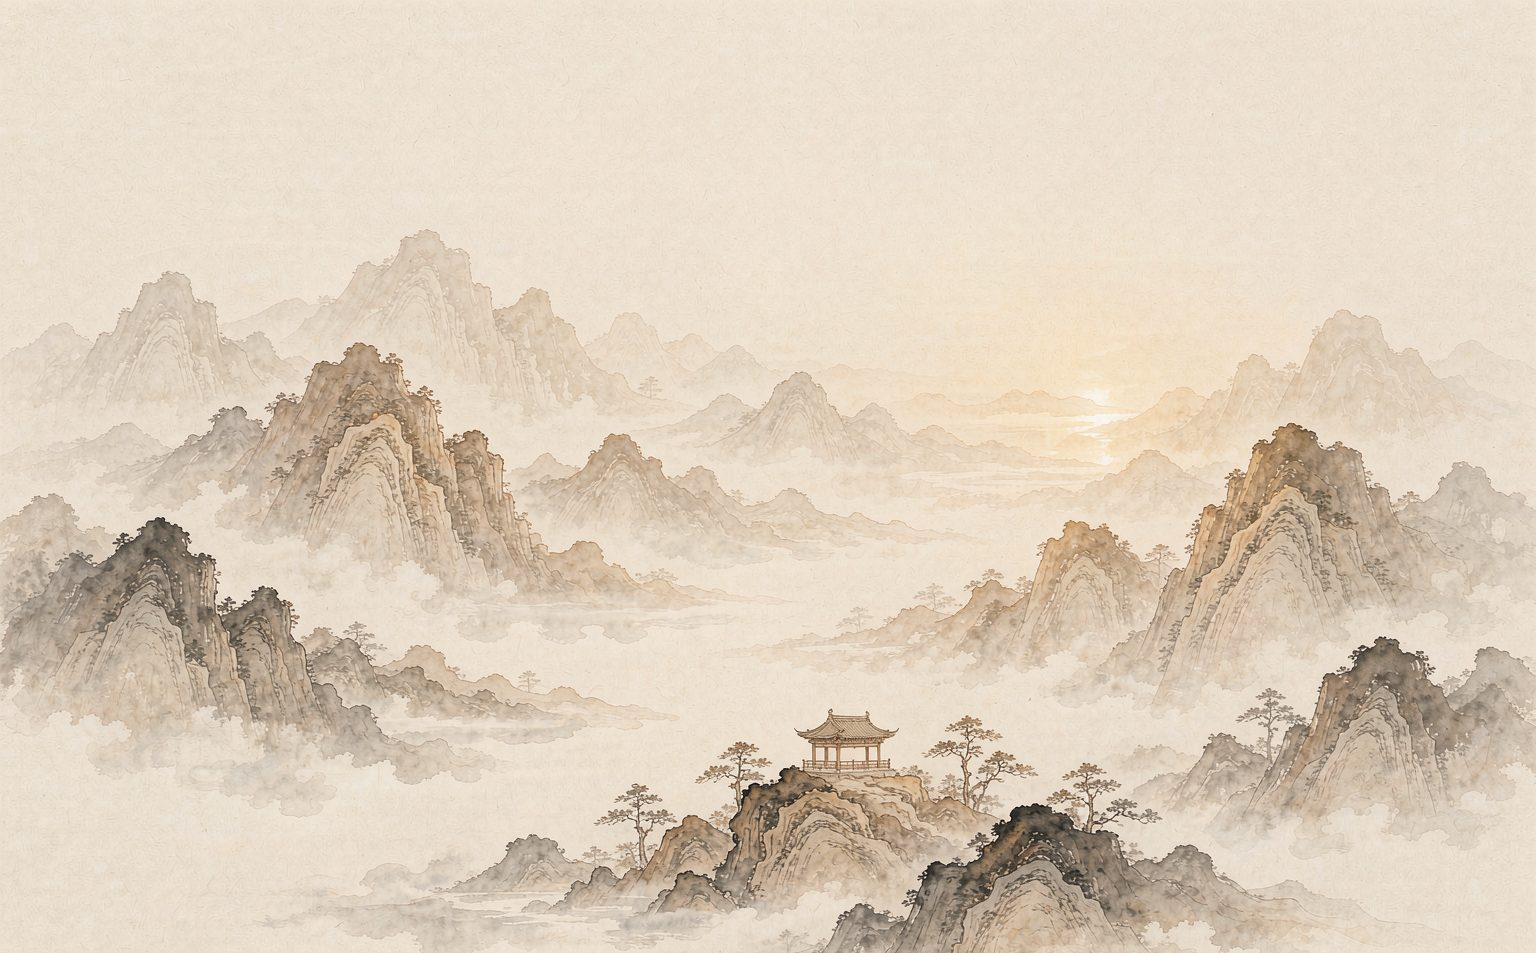
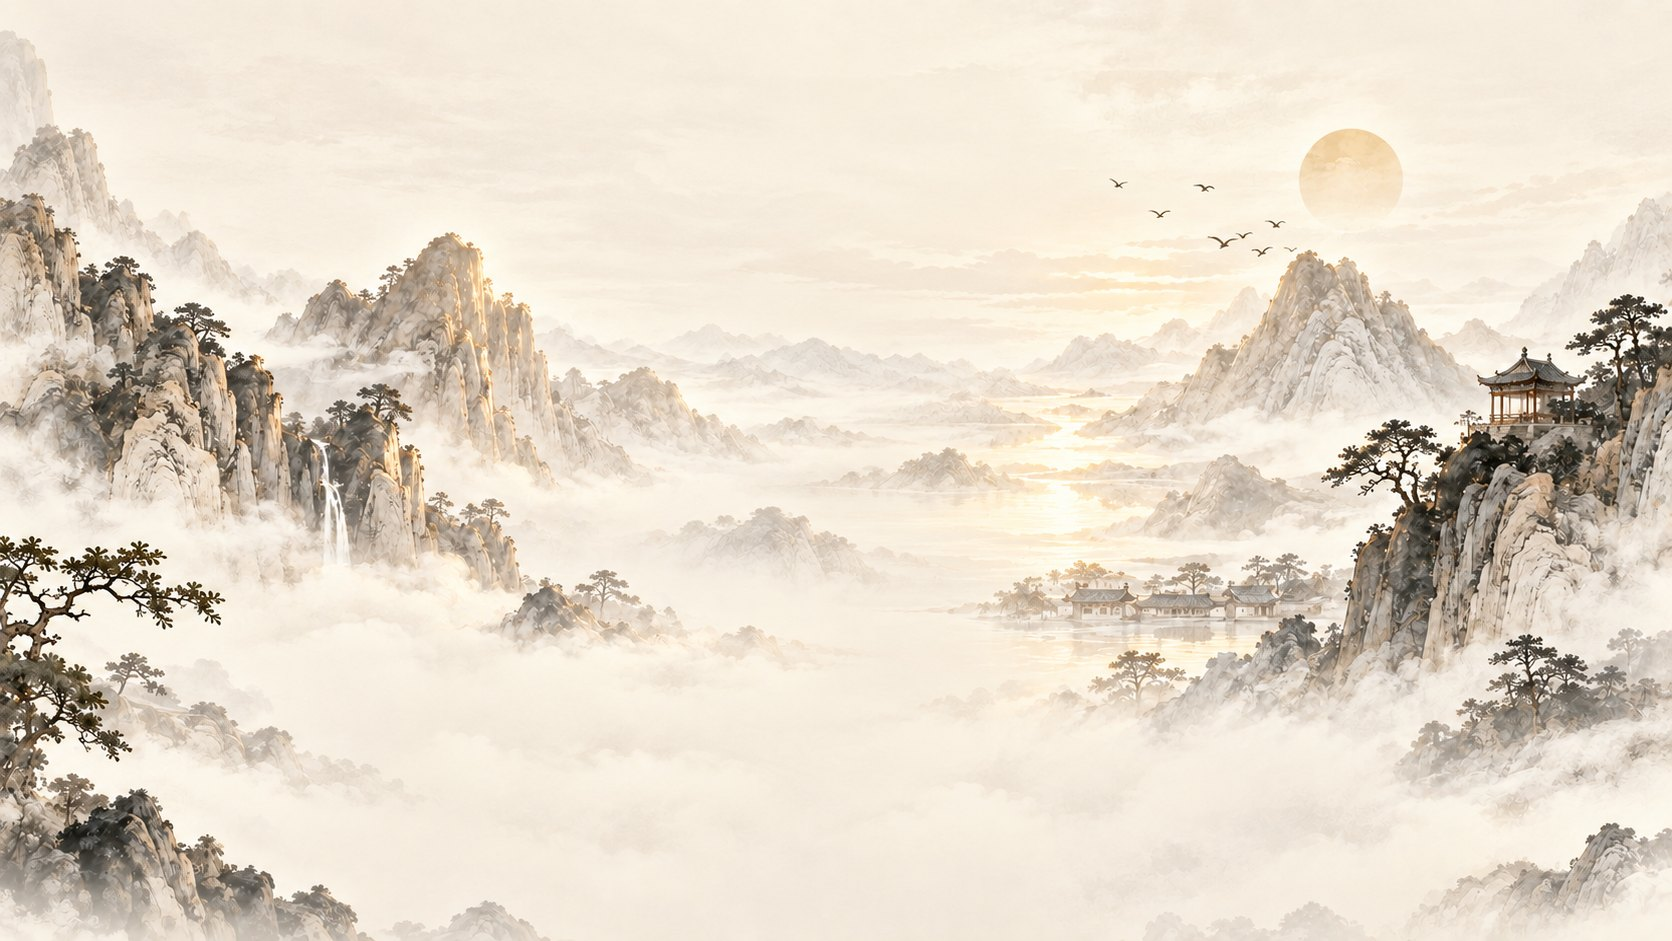
v0.25 接入用户标准图标素材与新版背景图
图标（用户指定标准：资料/新参考/图标/*.png）
- 8 枚透明底 1254px 素材裁边后统一缩到 320px，按系统 id 命名接入
  public/icons/system/{dark,light}/{bazi,ziwei,qimen,liuren,xiaoliuren,meihua,astrolabe,tarot}.png
  彻底替换旧的 sys-01..08（Codex 按缩略图判读生成，曾把 astrolabe 错配成咖啡杯）
- 浅色版按亮度归一到 luma≈100（原图标 118~221，在 luma≈220 的浅底上会糊掉），
  并按饱和度反向微调避免压暗后发灰
- 新增 SystemIcon 组件（systemIdentity.tsx）：深浅两版同在 DOM 按主题显隐，
  路径用 import.meta.env.BASE_URL 拼接，兼容 Pages 子路径

修复：深浅两图会同时显示
- 旧规则 .so-icon img{display:block}(0,1,1) 特异性高于 .ic-light{display:none}(0,1,0)，
  导致透明底两张图叠加显示；统一收口到 .sys-icon 下用两级类选择器(0,2,0)，
  [data-theme] 规则(0,3,0) 才能正确生效

Wikipedia 体系卡补图标（参考稿：图标在上、名字在下）

背景图换成用户提供的 背景图（深/浅）.png（限长边 1920，q86）

验证: tsc 0 / build 绿 / 内核 49 + 前端 51 通过 / 16 枚图标与 2 张背景 HTTP 200

diff --git a/src/styles.css b/src/styles.css
@@ -1519,13 +1519,19 @@ select:focus:not(:focus-visible) { outline: none; }
   transform: translateY(-3px);
   box-shadow: 0 6px 20px rgba(0,0,0,.15);
 }
+/* 参考稿：体系图标置于细圆环内，下方只跟体系名 */
 .so-icon {
-  flex: none; width: 44px; height: 44px; border-radius: 12px;
+  flex: none; width: 60px; height: 60px; border-radius: 50%;
   display: inline-flex; align-items: center; justify-content: center;
-  background: color-mix(in srgb, var(--so-accent, var(--gold)) 12%, transparent);
-  border: 1px solid color-mix(in srgb, var(--so-accent, var(--gold)) 28%, transparent);
+  background: color-mix(in srgb, var(--so-accent, var(--gold)) 9%, transparent);
+  border: 1px solid color-mix(in srgb, var(--so-accent, var(--gold)) 30%, transparent);
+  transition: border-color .25s ease, transform .25s ease;
 }
-.so-icon img { width: 28px; height: 28px; }
+.so-card:hover .so-icon,
+.so-card.so-active .so-icon {
+  border-color: color-mix(in srgb, var(--so-accent, var(--gold)) 65%, transparent);
+  transform: translateY(-2px);
+}
 .so-icon .sigil { color: var(--so-accent, var(--gold)); }
 .so-text { min-width: 0; display: flex; flex-direction: column; gap: 4px; align-items: center; }
 .so-line1 { display: flex; flex-direction: column; align-items: center; gap: 2px; }
@@ -3670,11 +3676,19 @@ details.legacy-wall[open] .wall {
 .tp-chip { background: var(--panel); }
 .so-cat { font-weight: 600; }
 
-/* 体系图标：深浅两版同在 DOM，按主题显隐（避免切主题时闪烁） */
-.so-icon img { width: 100%; height: auto; display: block; }
-.ic-light { display: none; }
-[data-theme="light"] .ic-dark { display: none; }
-[data-theme="light"] .ic-light { display: block; }
+/* ═══════════════ 体系图标（用户标准素材，透明底 PNG） ═══════════════
+   深浅两版同在 DOM，按主题显隐（避免切主题时闪烁）。
+   注意特异性：旧写法 `.so-icon img{display:block}` (0,1,1) 会盖掉
+   `.ic-light{display:none}` (0,1,0)，导致两张图同时显示 —— 这里统一收口到
+   .sys-icon 下、用两级类选择器(0,2,0) 保证 [data-theme] 规则(0,3,0) 能生效。 */
+.sys-icon {
+  display: inline-flex; align-items: center; justify-content: center;
+  flex: none; line-height: 0;
+}
+.sys-icon img { width: 100%; height: 100%; object-fit: contain; }
+.sys-icon .ic-light { display: none; }
+[data-theme="light"] .sys-icon .ic-dark { display: none; }
+[data-theme="light"] .sys-icon .ic-light { display: block; }
 
 /* ═══════════════ 结果页桌面端章节导航（v0.17） ═══════════════
    结果页纵向很长，桌面端两侧留白白白浪费。
@@ -3900,6 +3914,7 @@ details.legacy-wall[open] .wall {
   border-radius: 14px; cursor: pointer; transition: border-color .2s, transform .2s, box-shadow .2s;
 }
 .gl-syscard:hover { border-color: color-mix(in srgb, var(--gold) 50%, transparent); transform: translateY(-2px); box-shadow: var(--glow); }
+.gl-sysicon { align-self: flex-start; margin-bottom: .25rem; }
 .gl-sysname { font-family: var(--serif); font-size: 1.05rem; color: var(--ink); letter-spacing: .1em; }
 .gl-sysintro { font-size: .72rem; color: var(--ink-soft); line-height: 1.5; }
 .gl-syscount { font-size: .68rem; color: var(--muted); margin-top: .2rem; }

diff --git a/src/SystemOverview.tsx b/src/SystemOverview.tsx
@@ -1,7 +1,7 @@
 import React, { useRef, useState } from 'react';
 import type { CalculateResult, SystemId } from './core';
 import { SYSTEM_META } from './core';
-import { SystemSigil, ACCENTS } from './systemIdentity';
+import { SystemIcon, ACCENTS } from './systemIdentity';
 import { SystemRenderer } from './renderers';
 import { InterpretationBlock } from './Interpretation';
 import { SystemEvidence } from './SystemEvidence';
@@ -61,9 +61,8 @@ export function SystemOverview({ result, showRaw, setShowRaw }: SystemOverviewPr
               aria-pressed={isActive}
             >
               <span className="so-icon">
-                {/* 用矢量 sigil（systemIdentity.tsx），保证八体系图标语义正确、深浅主题一致；
-                    不再依赖 public/icons 下的 PNG（曾出现 astrolabe 错配咖啡杯的回归） */}
-                <SystemSigil id={c.systemId as SystemId} size={28} />
+                {/* 用户指定的标准图标素材（透明底 PNG，深浅两套），见 systemIdentity.tsx 的 SystemIcon */}
+                <SystemIcon id={c.systemId as SystemId} size={40} />
               </span>
               {/* 参考稿排版：上面图标、下面名字，不放分类标签与详细描述 */}
               <span className="so-name">{meta?.name ?? c.systemId}</span>
@@ -80,7 +79,7 @@ export function SystemOverview({ result, showRaw, setShowRaw }: SystemOverviewPr
           style={{ '--accent': ACCENTS[activeChart.systemId as SystemId] } as React.CSSProperties}
         >
           <header className="so-detail-head">
-            <SystemSigil id={activeChart.systemId as SystemId} size={22} />
+            <SystemIcon id={activeChart.systemId as SystemId} size={30} />
             <h4>{activeMeta.name}</h4>
             <span className={`cat cat-${activeMeta.category}`}>{activeMeta.category === 'chart' ? '命盘类 · 长期结构' : '卜卦类 · 当前事件'}</span>
             <button className="so-close" type="button" onClick={() => setActiveId(null)} aria-label="关闭详情">✕</button>

diff --git a/src/systemIdentity.tsx b/src/systemIdentity.tsx
@@ -45,3 +45,51 @@ export function SystemSigil({ id, size = 22 }: { id: SystemId; size?: number }) 
     />
   );
 }
+
+/**
+ * 八体系专用图标 —— 用户指定的标准素材（资料/新参考/图标/*.png，透明底 1254px）。
+ *
+ * 为什么这里用位图而不是 <SystemSigil>：
+ *   用户给的是带细节的渲染稿（四柱牌位 / 紫微十二宫 / 九宫格 / 六壬日月盘 /
+ *   小六壬六宫 / 梅花五瓣 / 黄道十二宫 / 塔罗双牌），矢量简笔画不出这个信息量；
+ *   而这套素材本身就是透明底 PNG，直接引用即 100% 保真，也不会再出现
+ *   「按缩略图猜图导致 astrolabe 配成咖啡杯」这类回归。
+ *
+ * 深浅两套都在 DOM 里，靠 .ic-dark / .ic-light + [data-theme] 切换，换主题不重渲染。
+ * 路径用 import.meta.env.BASE_URL 拼接，保证 GitHub Pages 子路径(/xuanlan/)下也能取到。
+ * 小尺寸（<24px）请用 <SystemSigil>，位图在这个尺寸会糊。
+ */
+export function SystemIcon({
+  id,
+  size = 40,
+  className = '',
+}: {
+  id: SystemId;
+  size?: number;
+  className?: string;
+}) {
+  const base = import.meta.env.BASE_URL || '/';
+  return (
+    // 显式给 span 定尺寸，img 才能用 width/height:100% 稳定撑满（否则 inline-flex 会出现宽度循环依赖）
+    <span className={`sys-icon ${className}`.trim()} style={{ width: size, height: size }}>
+      <img
+        className="ic-dark"
+        src={`${base}icons/system/dark/${id}.png`}
+        alt=""
+        width={size}
+        height={size}
+        loading="lazy"
+        decoding="async"
+      />
+      <img
+        className="ic-light"
+        src={`${base}icons/system/light/${id}.png`}
+        alt=""
+        width={size}
+        height={size}
+        loading="lazy"
+        decoding="async"
+      />
+    </span>
+  );
+}

diff --git a/src/GlossaryPage.tsx b/src/GlossaryPage.tsx
@@ -6,6 +6,7 @@ import {
   termsOfSys,
   type GlossarySys,
 } from './glossary';
+import { SystemIcon } from './systemIdentity';
 
 type Cat = 'all' | GlossarySys;
 
@@ -129,6 +130,8 @@ export function GlossaryPage({ onBack }: { onBack: () => void }) {
                 key={s.id}
                 onClick={() => setCat(s.id)}
               >
+                {/* 参考稿：体系卡上方为体系图标 */}
+                <SystemIcon id={s.id as never} size={34} className="gl-sysicon" />
                 <div className="gl-sysname">{s.name}</div>
                 <div className="gl-sysintro">{s.intro}</div>
                 <div className="gl-syscount">{termsOfSys(s.id).length} 条术语</div>
